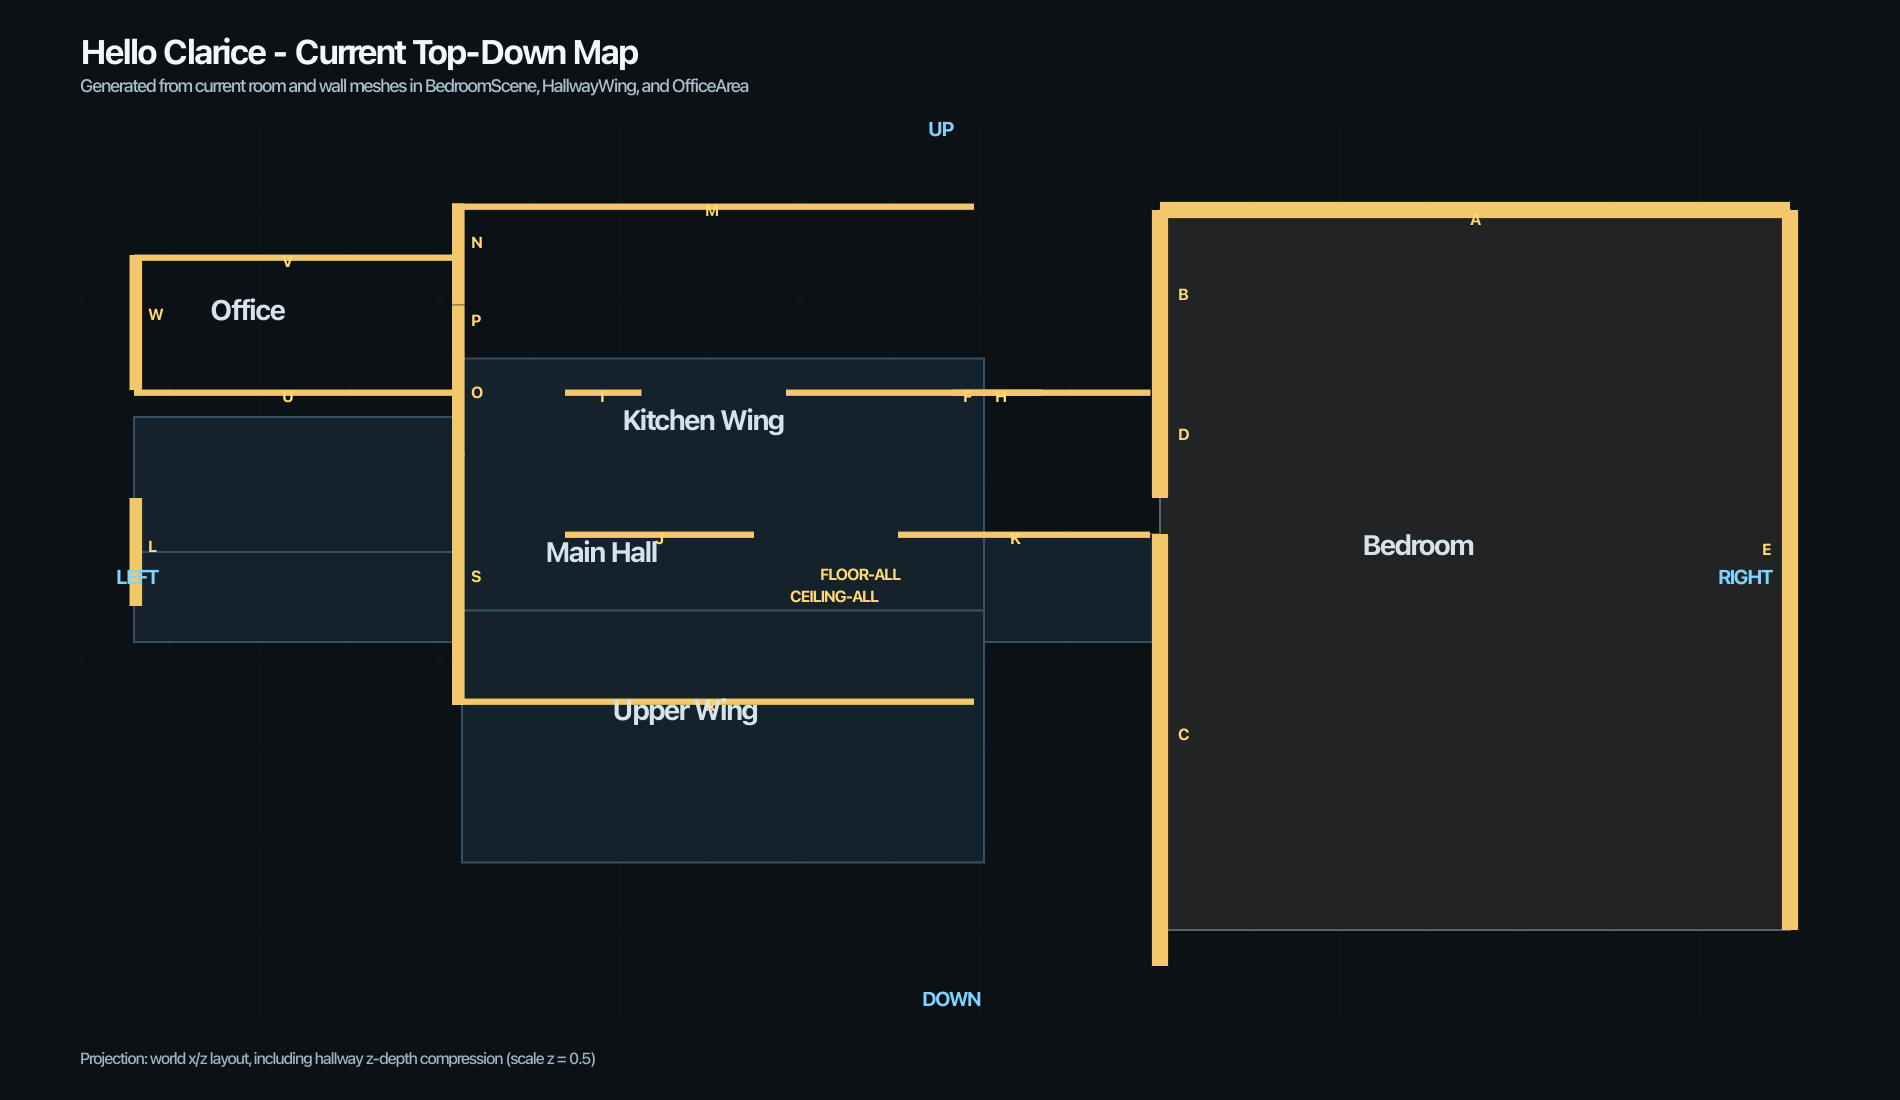
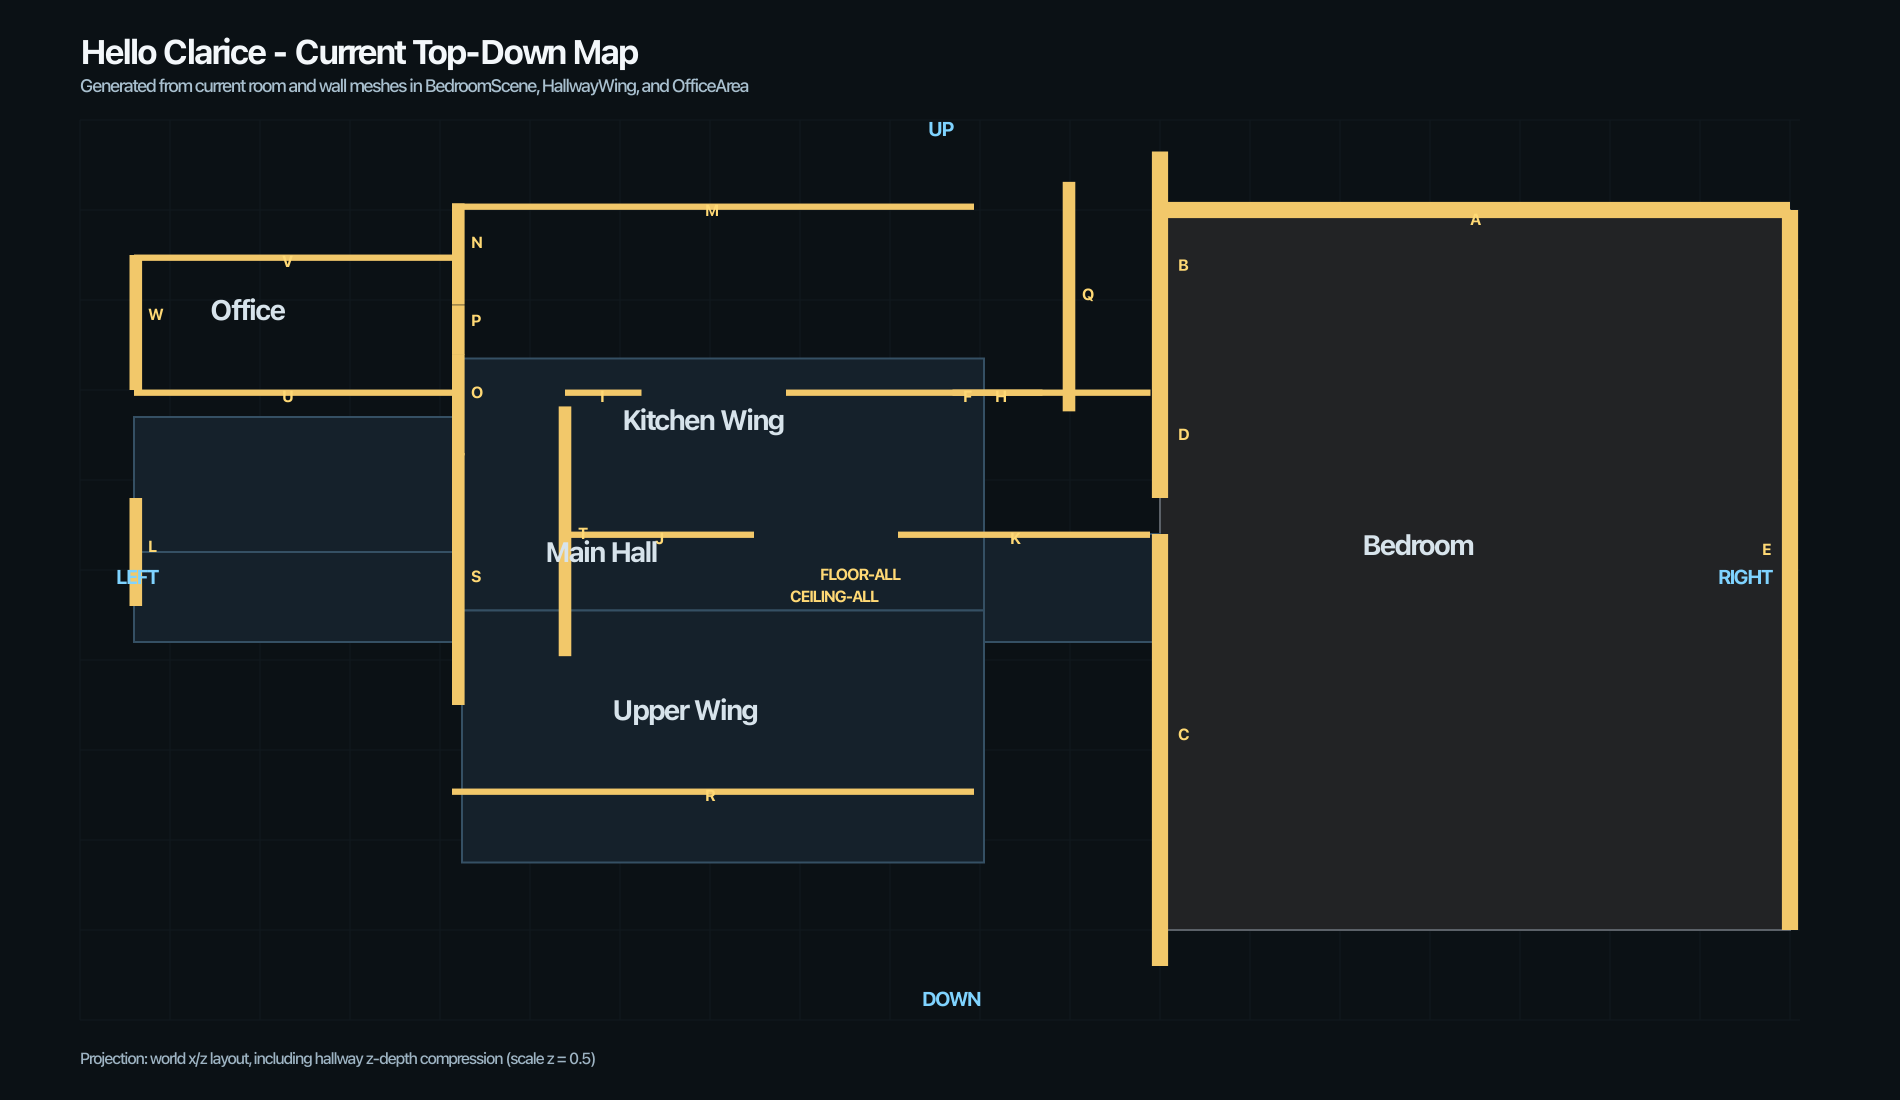
made bend in hallway

diff --git a/src/components/scene/HallwayWing.tsx b/src/components/scene/HallwayWing.tsx
@@ -6,30 +6,52 @@ import { MathUtils } from "three";
 
 export function HallwayWing() {
   const hallwayWall = useRoughMaterial("#202b31", "#0b1116", 0.76, "paint");
+  const wallFTop = hallwayWall.clone();
+  wallFTop.roughness = 1;
+  wallFTop.metalness = 0;
+  const wallFMaterials = [
+    hallwayWall,
+    hallwayWall,
+    wallFTop,
+    hallwayWall,
+    hallwayWall,
+    hallwayWall,
+  ];
   const hallwayCenterZ = -1.4;
   const depthCompression = 0.5;
 
   return (
     <group position={[0, 0, hallwayCenterZ]} scale={[1, 1, depthCompression]}>
       <group position={[0, 0, -hallwayCenterZ]}>
-      <mesh position={[-5.525, 2.1, -2.6]} receiveShadow>
+      <mesh position={[-5.525, 2.1, -2.8]} receiveShadow>
         {/* Wall F */}
         <boxGeometry args={[4.05, 4.2, 0.14]} />
-        <primitive object={hallwayWall} attach="material" />
+        <primitive object={wallFMaterials} attach="material" />
       </mesh>
-      <DebugWallLabel id="F" position={[-5.525, 2.1, -2.45]} oppositePosition={[-5.525, 2.1, -2.75]} rotationY={0} />
+      <DebugWallLabel id="F" position={[-5.525, 2.1, -2.65]} oppositePosition={[-5.525, 2.1, -2.95]} rotationY={0} />
       <mesh position={[-5.2, 3.4, -2.6]} receiveShadow>
         {/* Wall H */}
         <boxGeometry args={[1.0, 1.6, 0.14]} />
         <primitive object={hallwayWall} attach="material" />
       </mesh>
       <DebugWallLabel id="H" position={[-5.2, 3.4, -2.45]} oppositePosition={[-5.2, 3.4, -2.75]} rotationY={0} />
-      <mesh position={[-9.575, 2.1, -2.6]} receiveShadow>
+      <mesh position={[-9.575, 2.1, -2.8]} receiveShadow>
         {/* Wall I */}
         <boxGeometry args={[0.85, 4.2, 0.14]} />
         <primitive object={hallwayWall.clone()} attach="material" />
       </mesh>
-      <DebugWallLabel id="I" position={[-9.575, 2.1, -2.45]} oppositePosition={[-9.575, 2.1, -2.75]} rotationY={0} />
+      <DebugWallLabel id="I" position={[-9.575, 2.1, -2.65]} oppositePosition={[-9.575, 2.1, -2.95]} rotationY={0} />
+      <mesh position={[-4.9, 2.1, -5.35]} receiveShadow>
+        {/* Wall Q */}
+        <boxGeometry args={[0.14, 4.2, 5.1]} />
+        <primitive object={hallwayWall.clone()} attach="material" />
+      </mesh>
+      <DebugWallLabel
+        id="Q"
+        position={[-4.73, 2.1, -5.35]}
+        oppositePosition={[-5.07, 2.1, -5.35]}
+        rotationY={Math.PI / 2}
+      />
 
       <mesh position={[-8.95, 2.1, 0.55]} receiveShadow>
         {/* Wall J */}
@@ -44,21 +66,21 @@ export function HallwayWing() {
       </mesh>
       <DebugWallLabel id="K" position={[-4.9, 2.1, 0.4]} oppositePosition={[-4.9, 2.1, 0.7]} rotationY={0} />
 
-      <mesh position={[-8.35, 2.1, -6.9-1]} receiveShadow>
+      <mesh position={[-7.42, 2.1, -7.9]} receiveShadow>
         {/* Wall M */}
-        <boxGeometry args={[5.8, 4.2, 0.14]} />
+        <boxGeometry args={[7.66, 4.2, 0.14]} />
         <primitive object={hallwayWall.clone()} attach="material" />
       </mesh>
-      <DebugWallLabel id="M" position={[-8.35, 2.1, -6.75-1]} oppositePosition={[-8.35, 2.1, -7.05-1]} rotationY={0} />
-      <mesh position={[-11.25, 2.1, -6.275]} receiveShadow>
+      <DebugWallLabel id="M" position={[-7.42, 2.1, -7.75]} oppositePosition={[-7.42, 2.1, -8.05]} rotationY={0} />
+      <mesh position={[-11.25, 2.1, -6.525]} receiveShadow>
         {/* Wall N */}
-        <boxGeometry args={[0.14, 4.2, 2.25]} />
+        <boxGeometry args={[0.14, 4.2, 2.75]} />
         <primitive object={hallwayWall.clone()} attach="material" />
       </mesh>
       <DebugWallLabel
         id="N"
-        position={[-11.08, 2.1, -6.275]}
-        oppositePosition={[-11.42, 2.1, -6.275]}
+        position={[-11.08, 2.1, -6.525]}
+        oppositePosition={[-11.42, 2.1, -6.525]}
         rotationY={Math.PI / 2}
       />
       <mesh position={[-11.25, 2.1, -2.925]} receiveShadow>
@@ -83,38 +105,58 @@ export function HallwayWing() {
         oppositePosition={[-11.42, 3.5, -4.6]}
         rotationY={Math.PI / 2}
       />
-      <mesh position={[-7.725, 2.1, 4.1]} receiveShadow>
+      <mesh position={[-7.725, 2.1, 6.1]} receiveShadow>
         {/* Wall R */}
         <boxGeometry args={[4.55, 4.2, 0.14]} />
         <primitive object={hallwayWall.clone()} attach="material" />
       </mesh>
-      <DebugWallLabel id="R" position={[-7.725, 2.1, 3.95]} oppositePosition={[-7.725, 2.1, 4.25]} rotationY={0} />
-      <mesh position={[-11.25, 2.1, 1.0]} receiveShadow>
+      <DebugWallLabel id="R" position={[-7.725, 2.1, 5.95]} oppositePosition={[-7.725, 2.1, 6.25]} rotationY={0} />
+      <mesh position={[-10.0, 2.1, 5.325]} receiveShadow>
+        {/* Wall T (connects left edges of J and R) */}
+        <boxGeometry args={[0.14, 4.2, 9.55]} />
+        <primitive object={hallwayWall.clone()} attach="material" />
+      </mesh>
+      <DebugWallLabel
+        id="T"
+        position={[-9.83, 2.1, 5.325]}
+        oppositePosition={[-10.17, 2.1, 5.325]}
+        rotationY={Math.PI / 2}
+      />
+      <mesh position={[-11.25, 2.1, 3.0]} receiveShadow>
         {/* Wall S */}
-        <boxGeometry args={[0.14, 4.2, 5.6]} />
+        <boxGeometry args={[0.14, 4.2, 9.6]} />
         <primitive object={hallwayWall.clone()} attach="material" />
       </mesh>
       <DebugWallLabel
         id="S"
-        position={[-11.08, 2.1, 1.0]}
-        oppositePosition={[-11.42, 2.1, 1.0]}
+        position={[-11.08, 2.1, 3.0]}
+        oppositePosition={[-11.42, 2.1, 3.0]}
         rotationY={Math.PI / 2}
       />
 
-      <pointLight position={[-6.5, 2.35, -1.35]} intensity={0.88} color="#86adc0" distance={8.6} decay={2} />
-      <pointLight position={[-8.45, 2.1, -4.05]} intensity={0.56} color="#78a0bb" distance={5.5} decay={2} />
-      <pointLight position={[-8.45, 2.1, 1.35]} intensity={0.56} color="#78a0bb" distance={5.5} decay={2} />
-      <pointLight position={[-7.2, 2.05, -1.35]} intensity={0.46} color="#6b90a7" distance={6.8} decay={2} />
-      <pointLight position={[-8.25, 2.55, 1.45]} intensity={1.65} color="#ffe3ba" distance={7.2} decay={1.8} />
-      <pointLight position={[-8.35, 2.9, 1.4]} intensity={7.5} color="#fff6de" distance={11} decay={1.35} />
-      <pointLight position={[-8.35, 1.1, 1.2]} intensity={3.6} color="#fff0cf" distance={8.5} decay={1.2} />
       <rectAreaLight
-        position={[-8.35, 3.85, 1.25]}
+        position={[-9.55, 3.95, -4.9]}
         rotation={[-Math.PI / 2, 0, 0]}
-        width={2.6}
-        height={1.8}
-        intensity={18}
-        color="#fff8e6"
+        width={2.2}
+        height={1.4}
+        intensity={16.5}
+        color="#edf4f9"
+      />
+      <rectAreaLight
+        position={[-7.2, 3.95, -1.35]}
+        rotation={[-Math.PI / 2, 0, 0]}
+        width={3.2}
+        height={1.4}
+        intensity={11}
+        color="#d6e9f5"
+      />
+      <rectAreaLight
+        position={[-8.1, 3.95, 1.4]}
+        rotation={[-Math.PI / 2, 0, 0]}
+        width={2.4}
+        height={1.4}
+        intensity={10.5}
+        color="#d3e6f2"
       />
 
       <OfficeDoor />

diff --git a/src/components/BedroomScene.tsx b/src/components/BedroomScene.tsx
@@ -85,19 +85,19 @@ export function BedroomScene({
         doorInteractionTick={doorInteractionTick}
         returnToPhoneTick={returnToPhoneTick}
       />
-      <hemisphereLight intensity={0.46} color="#9fb4ba" groundColor="#1d1612" />
-      <ambientLight intensity={0.3} color="#879ba5" />
+      <hemisphereLight intensity={0.68} color="#9fb4ba" groundColor="#1d1612" />
+      <ambientLight intensity={0.5} color="#879ba5" />
       <directionalLight
         position={[-2.2, 3.2, 1.8]}
-        intensity={0.78}
+        intensity={1.7}
         color="#8091a0"
         castShadow
         shadow-mapSize-width={1024}
         shadow-mapSize-height={1024}
       />
-      <pointLight position={[-2.85, 1.15, -2.3]} intensity={3.8} color="#8fb7c6" distance={6.8} decay={2} />
-      <pointLight position={[2.3, 2.2, -1.7]} intensity={1.05} color="#bad6df" distance={8} decay={2} />
-      <pointLight position={[0, 1.2, 2.05]} intensity={1.15} color="#7f9495" distance={3.5} decay={2.3} />
+      <pointLight position={[-2.85, 1.15, -2.3]} intensity={5.2} color="#8fb7c6" distance={6.8} decay={2} />
+      <pointLight position={[2.3, 2.2, -1.7]} intensity={1.55} color="#bad6df" distance={8} decay={2} />
+      <pointLight position={[0, 1.2, 2.05]} intensity={1.7} color="#7f9495" distance={3.5} decay={2.3} />
 
       <RoomShell doorOpen={doorOpen} onToggleDoor={onToggleDoor} />
       <HallwayWing />
@@ -349,15 +349,15 @@ function RoomShell({ doorOpen, onToggleDoor }: { doorOpen: boolean; onToggleDoor
       </mesh>
       <DebugWallLabel id="A" position={[0, 2.25, -3.86]} oppositePosition={[0, 2.25, -4.14]} rotationY={0} />
 
-      <mesh position={[-3.5, 2.25, -3]} receiveShadow>
+      <mesh position={[-3.5, 2.25, -3.325]} receiveShadow>
         {/* Wall B */}
-        <boxGeometry args={[0.18, 4.5, 2.0, 1, 10, 8]} />
+        <boxGeometry args={[0.18, 4.5, 2.65, 1, 10, 8]} />
         <primitive object={wallMaterial.clone()} attach="material" />
       </mesh>
       <DebugWallLabel
         id="B"
-        position={[-3.36, 2.25, -3]}
-        oppositePosition={[-3.64, 2.25, -3]}
+        position={[-3.36, 2.25, -3.325]}
+        oppositePosition={[-3.64, 2.25, -3.325]}
         rotationY={Math.PI / 2}
       />
 
@@ -979,7 +979,9 @@ function constrainPlayerPosition(position: Vector3) {
   position.z = MathUtils.clamp(position.z, -4.25, 4.8);
 
   const inBedroom = position.x >= -3.2;
-  const inHallTransition = position.x < -3.2 && position.x > -6.2;
+  // Keep the narrow transition clamp local to the bedroom doorway zone.
+  // Without the z check, moving deeper in the hall can get incorrectly snapped.
+  const inHallTransition = position.x < -3.2 && position.x > -6.2 && position.z > -2.2;
 
   if (inBedroom) {
     position.z = MathUtils.clamp(position.z, -3.7, 3.6);

diff --git a/src/components/scene/OfficeArea.tsx b/src/components/scene/OfficeArea.tsx
@@ -112,7 +112,6 @@ export function OfficeArea() {
             <sphereGeometry args={[0.07, 12, 10]} />
             <primitive object={deskDark.clone()} attach="material" />
           </mesh>
-          <pointLight position={[0.28, 0.3, 0]} intensity={2.3} distance={3.5} decay={1.7} color="#ffe8be" />
         </group>
       </group>
 
@@ -162,15 +161,13 @@ export function OfficeArea() {
         </mesh>
       </group>
 
-      <pointLight position={[-13.1, 3.2, 2.45]} intensity={2.1} distance={6.5} decay={1.9} color="#c6e0ef" />
-      <pointLight position={[-12.2, 1.15, 3.15]} intensity={0.8} distance={4.2} decay={2} color="#83b2ca" />
       <rectAreaLight
         position={[-13.08, 3.95, 2.46]}
         rotation={[-Math.PI / 2, 0, 0]}
-        width={1.8}
-        height={1.1}
-        intensity={7}
-        color="#d6ecf9"
+        width={2.4}
+        height={1.7}
+        intensity={10}
+        color="#d9edf8"
       />
     </group>
   );